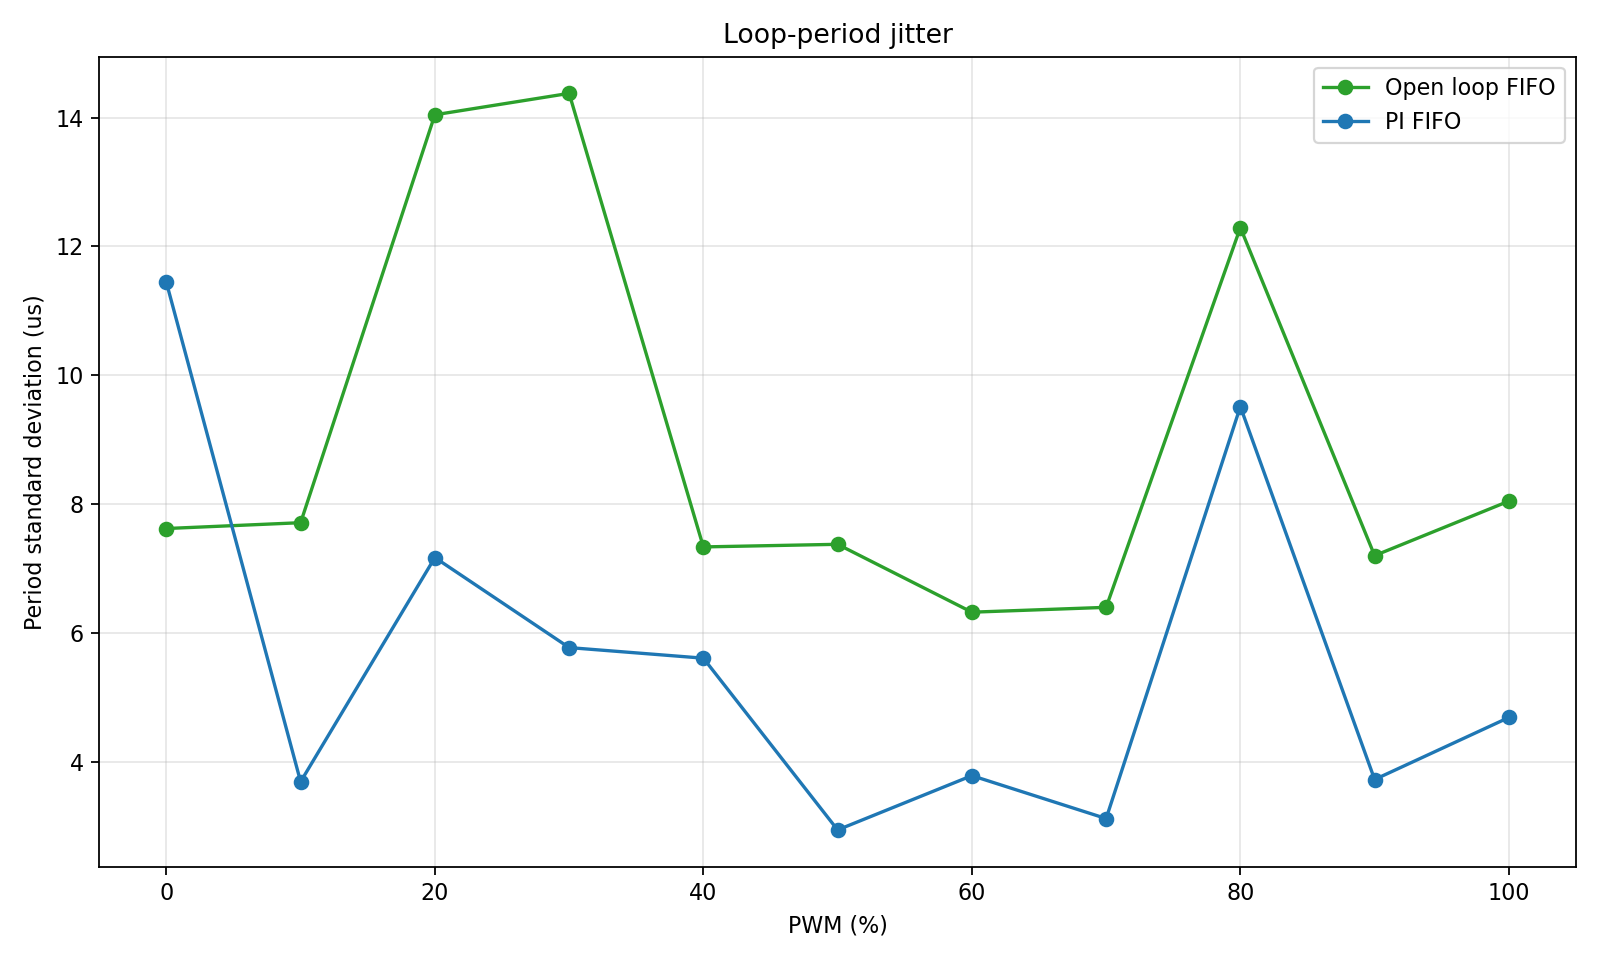
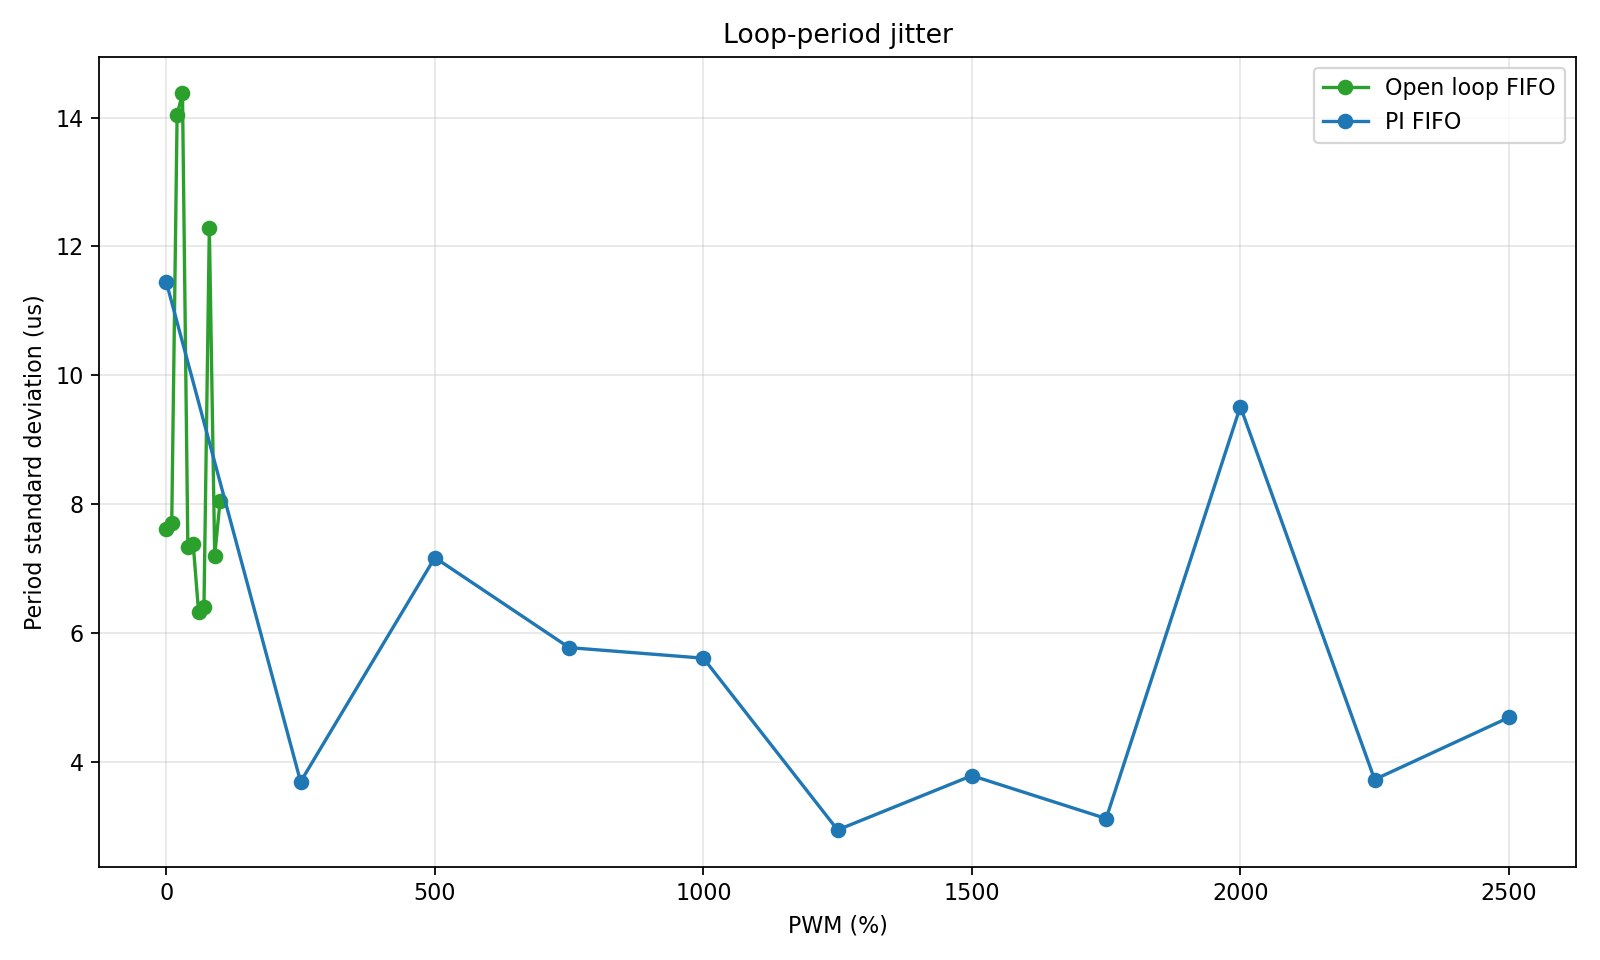
feat(report): add motor and PI controller test report

diff --git a/analyze_pwm_sweep.py b/analyze_pwm_sweep.py
@@ -153,13 +153,28 @@ def fit_open_loop(summary):
 
 
 def baseline_error(target, open_loop_summary):
-    if target <= 0.0 or not open_loop_summary:
+    points = [(row["pwm_percent"], row["clean_mean_raw_rpm"])
+              for row in open_loop_summary
+              if math.isfinite(row["clean_mean_raw_rpm"])]
+    points.sort()
+    if target <= 0.0 or len(points) < 2:
         return float("nan")
-    return min(abs(target - row["clean_mean_raw_rpm"]) for row in open_loop_summary)
+    requested_pwm = min(100.0, max(0.0, target / 2500.0 * 100.0))
+    if requested_pwm <= points[0][0]:
+        predicted = points[0][1]
+    elif requested_pwm >= points[-1][0]:
+        predicted = points[-1][1]
+    else:
+        for (lower_pwm, lower_rpm), (upper_pwm, upper_rpm) in zip(points, points[1:]):
+            if lower_pwm <= requested_pwm <= upper_pwm:
+                fraction = (requested_pwm - lower_pwm) / (upper_pwm - lower_pwm)
+                predicted = lower_rpm + fraction * (upper_rpm - lower_rpm)
+                break
+    return abs(target - predicted)
 
 
 def write_controller_comparison(path, pi_summary, open_loop_summary):
-    fields = ["target_rpm", "pi_steady_state_error_rpm", "open_loop_nearest_error_rpm",
+    fields = ["target_rpm", "pi_steady_state_error_rpm", "open_loop_interpolated_error_rpm",
               "improvement_percent"]
     with open(path, "w", newline="") as handle:
         writer = csv.DictWriter(handle, fieldnames=fields)
@@ -172,8 +187,61 @@ def write_controller_comparison(path, pi_summary, open_loop_summary):
                            if math.isfinite(open_error) and open_error > 0.0 else float("nan"))
             writer.writerow({"target_rpm": target,
                              "pi_steady_state_error_rpm": pi_error,
-                             "open_loop_nearest_error_rpm": open_error,
+                             "open_loop_interpolated_error_rpm": open_error,
                              "improvement_percent": improvement})
+
+
+def write_report(path, datasets, settling_band, late_limit_us):
+    open_loop = next((summary for name, (_, summary) in datasets.items()
+                      if "Open loop" in name), None)
+    pi_datasets = [(name, summary) for name, (_, summary) in datasets.items() if "PI" in name]
+    with open(path, "w") as handle:
+        handle.write("# Motor and PI Controller Test Report\n\n")
+        handle.write("## Experiment interpretation\n\n")
+        handle.write("The open-loop test applies fixed PWM levels from 0% to 100%. "
+                     "The PI test applies matching RPM setpoints. Open-loop data is the plant baseline; "
+                     "PI data measures feedback tracking. FIFO and non-FIFO runs are scheduling comparisons.\n\n")
+        handle.write("## Metrics\n\n")
+        handle.write(f"Steady-state statistics discard the first configured settling interval and remove timing outliers above {late_limit_us:.0f} us. "
+                     f"Transient settling uses filtered RPM and a +/-{settling_band * 100:.0f}% target band.\n\n")
+        handle.write("- Mean RPM: average measured raw RPM.\n")
+        handle.write("- Standard deviation: spread of raw RPM, including timing effects.\n")
+        handle.write("- Clean standard deviation: raw RPM spread after timing outliers are excluded.\n")
+        handle.write("- Loop jitter: standard deviation of the measured loop period.\n")
+        handle.write("- Maximum lateness: largest delay after the absolute scheduled wake time.\n")
+        handle.write("- Timing outliers: samples whose lateness exceeds the configured threshold.\n")
+        handle.write("- Rise time: time for filtered RPM to move from 10% to 90% of target.\n")
+        handle.write("- Settling time: time after which filtered RPM remains within the settling band.\n")
+        handle.write("- Overshoot: maximum amount above target, expressed as a percentage.\n")
+        handle.write("- Steady-state error: mean absolute target error in the final fifth of a step.\n\n")
+        handle.write("## First-order model\n\n")
+        handle.write("Use the identified motor model:\n\n")
+        handle.write("$$G(s)=\\frac{K}{s+a}=\\frac{K_m}{\\tau s+1},\\qquad \\tau=\\frac{1}{a}$$\n\n")
+        handle.write("Here, K (or K_m) is the input-to-speed gain, a is the response rate, and tau is the time constant. "
+                     "Estimate these from the raw open-loop step responses, not from the PI response. The PWM sweep supplies the steady-state input/output relationship; "
+                     "the time trace supplies the dynamic time constant.\n\n")
+        handle.write("## IMC and gain selection\n\n")
+        handle.write("For a first-order-plus-delay model, an IMC PI rule is:\n\n")
+        handle.write("$$G(s)=\\frac{K_m e^{-\\theta s}}{\\tau s+1},\\qquad "
+                     "K_p=\\frac{\\tau}{K_m(\\lambda+\\theta)},\\qquad K_i=\\frac{K_p}{\\tau}$$\n\n")
+        handle.write("lambda sets the desired closed-loop speed: smaller lambda is faster but less robust, while larger lambda is slower but more robust. "
+                     "The current C++ implementation uses the measured gain schedule in config.hpp and linearly interpolates Kp and Ki by target RPM. "
+                     "Describe these as IMC-derived only if the scheduled values were calculated with the IMC equations above; otherwise describe them as experimentally tuned gain-schedule values.\n\n")
+        handle.write("## Controller improvement\n\n")
+        handle.write("PI improvement is evaluated against the open-loop RPM predicted at the corresponding PWM percentage:\n\n")
+        handle.write("$$Improvement=100\\left(1-\\frac{e_{PI}}{e_{open}}\\right)\\%$$\n\n")
+        handle.write("where e is mean absolute steady-state RPM error. Use the generated comparison CSV and PI performance plot. "
+                     "Report water-loaded and no-load tests separately because water turbulence changes the plant.\n\n")
+        if open_loop:
+            model = fit_open_loop(open_loop)
+            if model:
+                handle.write(f"The current open-loop settled data has an approximate linear steady-state fit of RPM = {model[0]:.2f} * PWM(%) + {model[1]:.2f}. "
+                             "This is a static characterization, not the dynamic first-order model by itself.\n\n")
+        for name, summary in pi_datasets:
+            finite_errors = [row["steady_state_error_rpm"] for row in summary
+                             if math.isfinite(row["steady_state_error_rpm"])]
+            if finite_errors:
+                handle.write(f"{name}: mean PI steady-state error across valid targets = {mean(finite_errors):.2f} RPM.\n")
 
 
 def make_plots(datasets, output_dir):
@@ -190,7 +258,7 @@ def make_plots(datasets, output_dir):
         spread = [row["clean_std_raw_rpm"] for row in summary]
         axis.errorbar(pwm, rpm, yerr=spread, marker="o", capsize=3,
                       label=name, color=colors.get(name))
-    axis.set(title="Raw RPM characterization", xlabel="PWM (%)", ylabel="RPM")
+    axis.set(title="RPM characterization and PI tracking", xlabel="PWM (%) or target RPM", ylabel="RPM")
     axis.grid(alpha=0.3)
     axis.legend()
     figure.tight_layout()
@@ -199,7 +267,7 @@ def make_plots(datasets, output_dir):
 
     figure, axis = plt.subplots(figsize=(10, 6))
     for name, (_, summary) in datasets.items():
-        pwm = [row["pwm_percent"] for row in summary]
+        pwm = [row["target_rpm"] if "PI" in name else row["pwm_percent"] for row in summary]
         jitter = [row["std_period_us"] for row in summary]
         axis.plot(pwm, jitter, marker="o", label=name, color=colors.get(name))
     axis.set(title="Loop-period jitter", xlabel="PWM (%)", ylabel="Period standard deviation (us)")
@@ -295,6 +363,10 @@ def main():
                 comparison_path = os.path.join(args.output, name.lower().replace(" ", "_") + "_comparison.csv")
                 write_controller_comparison(comparison_path, summary, open_loop)
                 print(f"Controller comparison saved to {comparison_path}")
+
+    report_path = os.path.join(args.output, "controller_analysis_report.md")
+    write_report(report_path, datasets, args.settling_band, args.late_limit_us)
+    print(f"Report saved to {report_path}")
 
     make_plots(datasets, args.output)
     if plt is not None:

diff --git a/fifo_analysis/controller_analysis_report.md b/fifo_analysis/controller_analysis_report.md
@@ -1,0 +1,48 @@
+# Motor and PI Controller Test Report
+
+## Experiment interpretation
+
+The open-loop test applies fixed PWM levels from 0% to 100%. The PI test applies matching RPM setpoints. Open-loop data is the plant baseline; PI data measures feedback tracking. FIFO and non-FIFO runs are scheduling comparisons.
+
+## Metrics
+
+Steady-state statistics discard the first configured settling interval and remove timing outliers above 500 us. Transient settling uses filtered RPM and a +/-5% target band.
+
+- Mean RPM: average measured raw RPM.
+- Standard deviation: spread of raw RPM, including timing effects.
+- Clean standard deviation: raw RPM spread after timing outliers are excluded.
+- Loop jitter: standard deviation of the measured loop period.
+- Maximum lateness: largest delay after the absolute scheduled wake time.
+- Timing outliers: samples whose lateness exceeds the configured threshold.
+- Rise time: time for filtered RPM to move from 10% to 90% of target.
+- Settling time: time after which filtered RPM remains within the settling band.
+- Overshoot: maximum amount above target, expressed as a percentage.
+- Steady-state error: mean absolute target error in the final fifth of a step.
+
+## First-order model
+
+Use the identified motor model:
+
+$$G(s)=\frac{K}{s+a}=\frac{K_m}{\tau s+1},\qquad \tau=\frac{1}{a}$$
+
+Here, K (or K_m) is the input-to-speed gain, a is the response rate, and tau is the time constant. Estimate these from the raw open-loop step responses, not from the PI response. The PWM sweep supplies the steady-state input/output relationship; the time trace supplies the dynamic time constant.
+
+## IMC and gain selection
+
+For a first-order-plus-delay model, an IMC PI rule is:
+
+$$G(s)=\frac{K_m e^{-\theta s}}{\tau s+1},\qquad K_p=\frac{\tau}{K_m(\lambda+\theta)},\qquad K_i=\frac{K_p}{\tau}$$
+
+lambda sets the desired closed-loop speed: smaller lambda is faster but less robust, while larger lambda is slower but more robust. The current C++ implementation uses the measured gain schedule in config.hpp and linearly interpolates Kp and Ki by target RPM. Describe these as IMC-derived only if the scheduled values were calculated with the IMC equations above; otherwise describe them as experimentally tuned gain-schedule values.
+
+## Controller improvement
+
+PI improvement is evaluated against the nearest measured open-loop operating point:
+
+$$Improvement=100\left(1-\frac{e_{PI}}{e_{open}}\right)\%$$
+
+where e is mean absolute steady-state RPM error. Use the generated comparison CSV and PI performance plot. Report water-loaded and no-load tests separately because water turbulence changes the plant.
+
+The current open-loop settled data has an approximate linear steady-state fit of RPM = 25.54 * PWM(%) + -7.73. This is a static characterization, not the dynamic first-order model by itself.
+
+PI FIFO: mean PI steady-state error across valid targets = 17.25 RPM.
